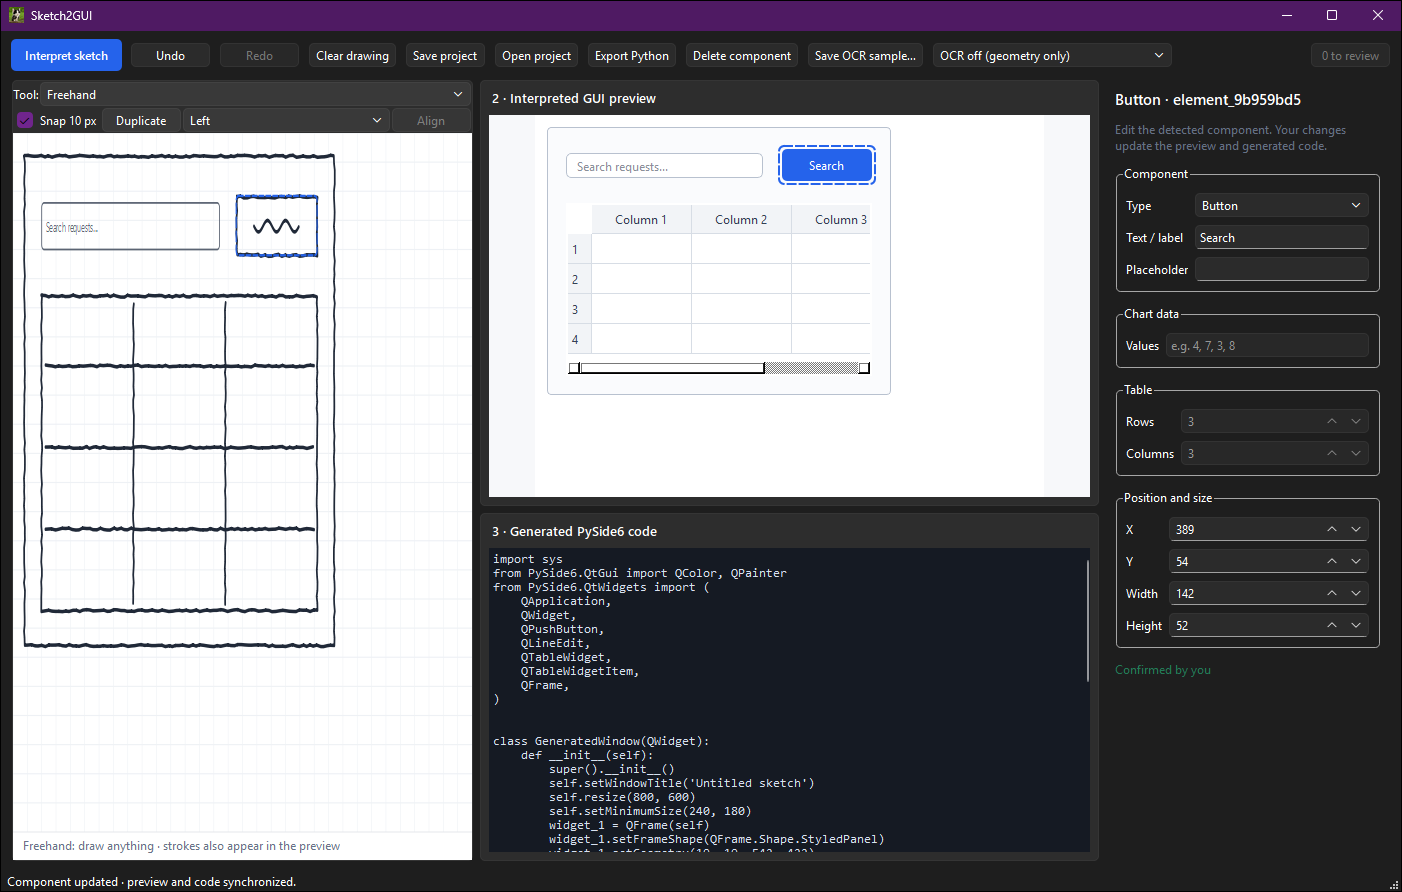
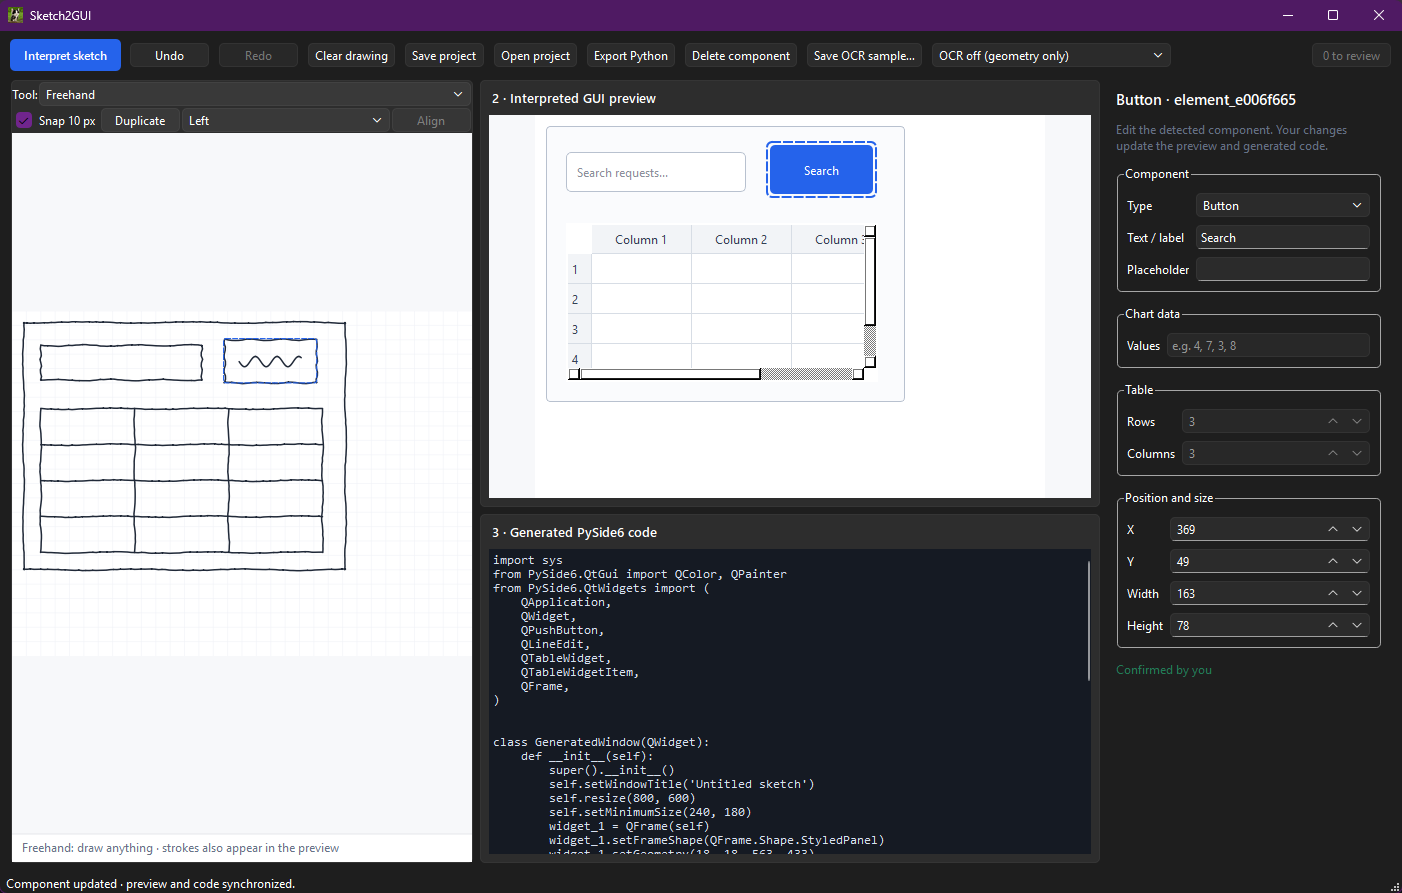
fix: keep the design's proportions on the drawing canvas
The canvas scaled x and y separately to fill the left panel, so the
800x600 page was stretched to whatever shape the panel had. A square
drawn in a tall panel was stored about twice as wide as tall, and the
preview and the exported window showed it that way.

The canvas now uses one scale, like the preview, centers the page and
paints the area around it in the preview's grey. The README
screenshot is retaken with the fix.

diff --git a/tests/test_ui.py b/tests/test_ui.py
@@ -310,15 +310,25 @@ class MainWindowEditingTests(unittest.TestCase):
         self.window.show()
         self.app.processEvents()
 
+        scale, ox, oy = self.window.canvas._canvas_transform()
         # Deliberately send press/release only, without a mouse-move event.
-        QTest.mousePress(self.window.canvas, Qt.MouseButton.LeftButton, pos=QPoint(45, 45))
-        QTest.mouseRelease(self.window.canvas, Qt.MouseButton.LeftButton, pos=QPoint(170, 130))
+        QTest.mousePress(self.window.canvas, Qt.MouseButton.LeftButton, pos=QPoint(round(45 * scale + ox), round(45 * scale + oy)))
+        QTest.mouseRelease(self.window.canvas, Qt.MouseButton.LeftButton, pos=QPoint(round(170 * scale + ox), round(130 * scale + oy)))
         self.app.processEvents()
 
         self.assertEqual(len(self.window.document.strokes), 1)
         generated = self.window.code_editor.toPlainText()
         self.assertNotEqual(generated, code_before)
         self.assertIn("self._sketch_strokes = [", generated)
+
+    def test_canvas_keeps_the_design_proportions(self):
+        self.window.resize(1280, 800)
+        self.window.show()
+        self.app.processEvents()
+        canvas = self.window.canvas
+        left, top = canvas._widget_to_document(QPoint(100, 200))
+        right, bottom = canvas._widget_to_document(QPoint(200, 300))
+        self.assertAlmostEqual(right - left, bottom - top)
 
     def test_adding_a_stroke_preserves_existing_preview_controls(self):
         button = UIElement("button", 30, 40, 140, 42, text="Keep me")
@@ -392,9 +402,9 @@ class MainWindowEditingTests(unittest.TestCase):
         index = self.window.drawing_tool_combo.findData("button")
         self.window.drawing_tool_combo.setCurrentIndex(index)
         canvas = self.window.canvas
-        scale_x, scale_y, offset_x, offset_y = canvas._canvas_transform()
-        start = QPoint(round(offset_x + 40 * scale_x), round(offset_y + 50 * scale_y))
-        end = QPoint(round(offset_x + 180 * scale_x), round(offset_y + 95 * scale_y))
+        scale, offset_x, offset_y = canvas._canvas_transform()
+        start = QPoint(round(offset_x + 40 * scale), round(offset_y + 50 * scale))
+        end = QPoint(round(offset_x + 180 * scale), round(offset_y + 95 * scale))
         QTest.mousePress(canvas, Qt.MouseButton.LeftButton, pos=start)
         QTest.mouseMove(canvas, QPoint(start.x() + 35, start.y() + 12), 1)
         QTest.mouseMove(canvas, end, 1)
@@ -417,9 +427,9 @@ class MainWindowEditingTests(unittest.TestCase):
             self.window.drawing_tool_combo.findData("button")
         )
         canvas = self.window.canvas
-        scale_x, scale_y, offset_x, offset_y = canvas._canvas_transform()
-        start = QPoint(round(offset_x + 40 * scale_x), round(offset_y + 50 * scale_y))
-        end = QPoint(round(offset_x + 180 * scale_x), round(offset_y + 95 * scale_y))
+        scale, offset_x, offset_y = canvas._canvas_transform()
+        start = QPoint(round(offset_x + 40 * scale), round(offset_y + 50 * scale))
+        end = QPoint(round(offset_x + 180 * scale), round(offset_y + 95 * scale))
         QTest.mousePress(canvas, Qt.MouseButton.LeftButton, pos=start)
         QTest.mouseRelease(canvas, Qt.MouseButton.LeftButton, pos=end)
         self.app.processEvents()
@@ -439,9 +449,9 @@ class MainWindowEditingTests(unittest.TestCase):
             self.window.drawing_tool_combo.findData("select")
         )
         canvas = self.window.canvas
-        sx, sy, ox, oy = canvas._canvas_transform()
-        start = QPoint(round(80 * sx + ox), round(70 * sy + oy))
-        end = QPoint(round(130 * sx + ox), round(100 * sy + oy))
+        scale, ox, oy = canvas._canvas_transform()
+        start = QPoint(round(80 * scale + ox), round(70 * scale + oy))
+        end = QPoint(round(130 * scale + ox), round(100 * scale + oy))
         old_x, old_y = self.element.x, self.element.y
         QTest.mousePress(canvas, Qt.MouseButton.LeftButton, pos=start)
         QTest.mouseRelease(canvas, Qt.MouseButton.LeftButton, pos=end)
@@ -458,10 +468,10 @@ class MainWindowEditingTests(unittest.TestCase):
             self.window.drawing_tool_combo.findData("select")
         )
         canvas = self.window.canvas
-        sx, sy, ox, oy = canvas._canvas_transform()
-        start = QPoint(round((self.element.x + self.element.width) * sx + ox),
-                       round((self.element.y + self.element.height) * sy + oy))
-        end = QPoint(round(240 * sx + ox), round(150 * sy + oy))
+        scale, ox, oy = canvas._canvas_transform()
+        start = QPoint(round((self.element.x + self.element.width) * scale + ox),
+                       round((self.element.y + self.element.height) * scale + oy))
+        end = QPoint(round(240 * scale + ox), round(150 * scale + oy))
         old_width, old_height = self.element.width, self.element.height
         QTest.mousePress(canvas, Qt.MouseButton.LeftButton, pos=start)
         QTest.mouseRelease(canvas, Qt.MouseButton.LeftButton, pos=end)
@@ -480,8 +490,8 @@ class MainWindowEditingTests(unittest.TestCase):
             self.window.drawing_tool_combo.findData("line")
         )
         canvas = self.window.canvas
-        sx, sy, ox, oy = canvas._canvas_transform()
-        to_canvas = lambda x, y: QPoint(round(x * sx + ox), round(y * sy + oy))
+        scale, ox, oy = canvas._canvas_transform()
+        to_canvas = lambda x, y: QPoint(round(x * scale + ox), round(y * scale + oy))
 
         for start_point, end_point in (((40, 50), (160, 50)), ((220, 60), (220, 180))):
             QTest.mousePress(canvas, Qt.MouseButton.LeftButton, pos=to_canvas(*start_point))
@@ -555,8 +565,8 @@ class MainWindowEditingTests(unittest.TestCase):
         self.window.drawing_tool_combo.setCurrentIndex(self.window.drawing_tool_combo.findData("select"))
         self.app.processEvents()
         canvas = self.window.canvas
-        sx, sy, ox, oy = canvas._canvas_transform()
-        point = lambda x, y: QPoint(round(ox + x * sx), round(oy + y * sy))
+        scale, ox, oy = canvas._canvas_transform()
+        point = lambda x, y: QPoint(round(ox + x * scale), round(oy + y * scale))
         start = point(80, 60)
         end = point(115, 83)
         QTest.mousePress(canvas, Qt.MouseButton.LeftButton, pos=start)
@@ -696,14 +706,14 @@ class MainWindowEditingTests(unittest.TestCase):
         self.window.show()
         self.app.processEvents()
         canvas = self.window.canvas
-        scale_x, scale_y, offset_x, offset_y = canvas._canvas_transform()
+        scale, offset_x, offset_y = canvas._canvas_transform()
         design_points = [
             (40, 40), (90, 40), (140, 40), (180, 40),
             (180, 60), (180, 90), (180, 110),
             (140, 110), (90, 110), (40, 110),
             (40, 90), (40, 60), (40, 40),
         ]
-        canvas_points = [QPoint(round(offset_x + x * scale_x), round(offset_y + y * scale_y))
+        canvas_points = [QPoint(round(offset_x + x * scale), round(offset_y + y * scale))
                          for x, y in design_points]
         QTest.mousePress(canvas, Qt.MouseButton.LeftButton, pos=canvas_points[0])
         for point in canvas_points[1:-1]:
@@ -733,8 +743,8 @@ class MainWindowEditingTests(unittest.TestCase):
         self.window.show()
         self.app.processEvents()
         canvas = self.window.canvas
-        scale_x, scale_y, offset_x, offset_y = canvas._canvas_transform()
-        to_canvas = lambda x, y: QPoint(round(offset_x + x * scale_x), round(offset_y + y * scale_y))
+        scale, offset_x, offset_y = canvas._canvas_transform()
+        to_canvas = lambda x, y: QPoint(round(offset_x + x * scale), round(offset_y + y * scale))
 
         QTest.mouseClick(canvas, Qt.MouseButton.LeftButton, pos=to_canvas(80, 75))
         self.assertEqual(self.window.selected_id, self.element.element_id)

diff --git a/sketch2gui/ui/canvas.py b/sketch2gui/ui/canvas.py
@@ -73,9 +73,9 @@ class DrawingCanvas(QWidget):
         return round(value / 10.0) * 10.0 if self.snap_enabled else value
 
     def _widget_to_document(self, pos, *, clamp: bool = False) -> tuple[float, float]:
-        scale_x, scale_y, offset_x, offset_y = self._canvas_transform()
-        x = (float(pos.x()) - offset_x) / max(scale_x, 1e-9)
-        y = (float(pos.y()) - offset_y) / max(scale_y, 1e-9)
+        scale, offset_x, offset_y = self._canvas_transform()
+        x = (float(pos.x()) - offset_x) / max(scale, 1e-9)
+        y = (float(pos.y()) - offset_y) / max(scale, 1e-9)
         if clamp:
             x = min(float(self.document.width), max(0.0, x))
             y = min(float(self.document.height), max(0.0, y))
@@ -89,11 +89,15 @@ class DrawingCanvas(QWidget):
         """Height of the drawable region, leaving the instruction footer clear."""
         return max(1, self.height() - DRAWING_FOOTER_HEIGHT)
 
-    def _canvas_transform(self) -> tuple[float, float, float, float]:
-        """Map document coordinates to the full drawable area as it is resized."""
-        scale_x = self.width() / max(self.document.width, 1)
-        scale_y = self._drawing_height() / max(self.document.height, 1)
-        return scale_x, scale_y, 0.0, 0.0
+    def _canvas_transform(self) -> tuple[float, float, float]:
+        """Fit the page in the drawable area with one scale, as the preview does, and center it."""
+        scale = min(
+            self.width() / max(self.document.width, 1),
+            self._drawing_height() / max(self.document.height, 1),
+        )
+        offset_x = (self.width() - self.document.width * scale) / 2
+        offset_y = (self._drawing_height() - self.document.height * scale) / 2
+        return scale, offset_x, offset_y
 
     def _element_at(self, point: tuple[float, float]) -> UIElement | None:
         """Return the topmost component containing a document-space point."""
@@ -342,13 +346,14 @@ class DrawingCanvas(QWidget):
 
     def paintEvent(self, event):
         painter = QPainter(self)
-        painter.fillRect(self.rect(), QColor("#FFFFFF"))
+        painter.fillRect(self.rect(), QColor("#F7F8FA"))
         painter.setRenderHint(QPainter.RenderHint.Antialiasing)
-        scale_x, scale_y, offset_x, offset_y = self._canvas_transform()
+        scale, offset_x, offset_y = self._canvas_transform()
         painter.save()
         painter.translate(offset_x, offset_y)
-        painter.scale(scale_x, scale_y)
+        painter.scale(scale, scale)
         painter.setClipRect(0, 0, self.document.width, self.document.height)
+        painter.fillRect(0, 0, self.document.width, self.document.height, QColor("#FFFFFF"))
         grid_pen = QPen(QColor("#EEF1F5"), 1)
         painter.setPen(grid_pen)
         for x in range(0, self.document.width, 25):
